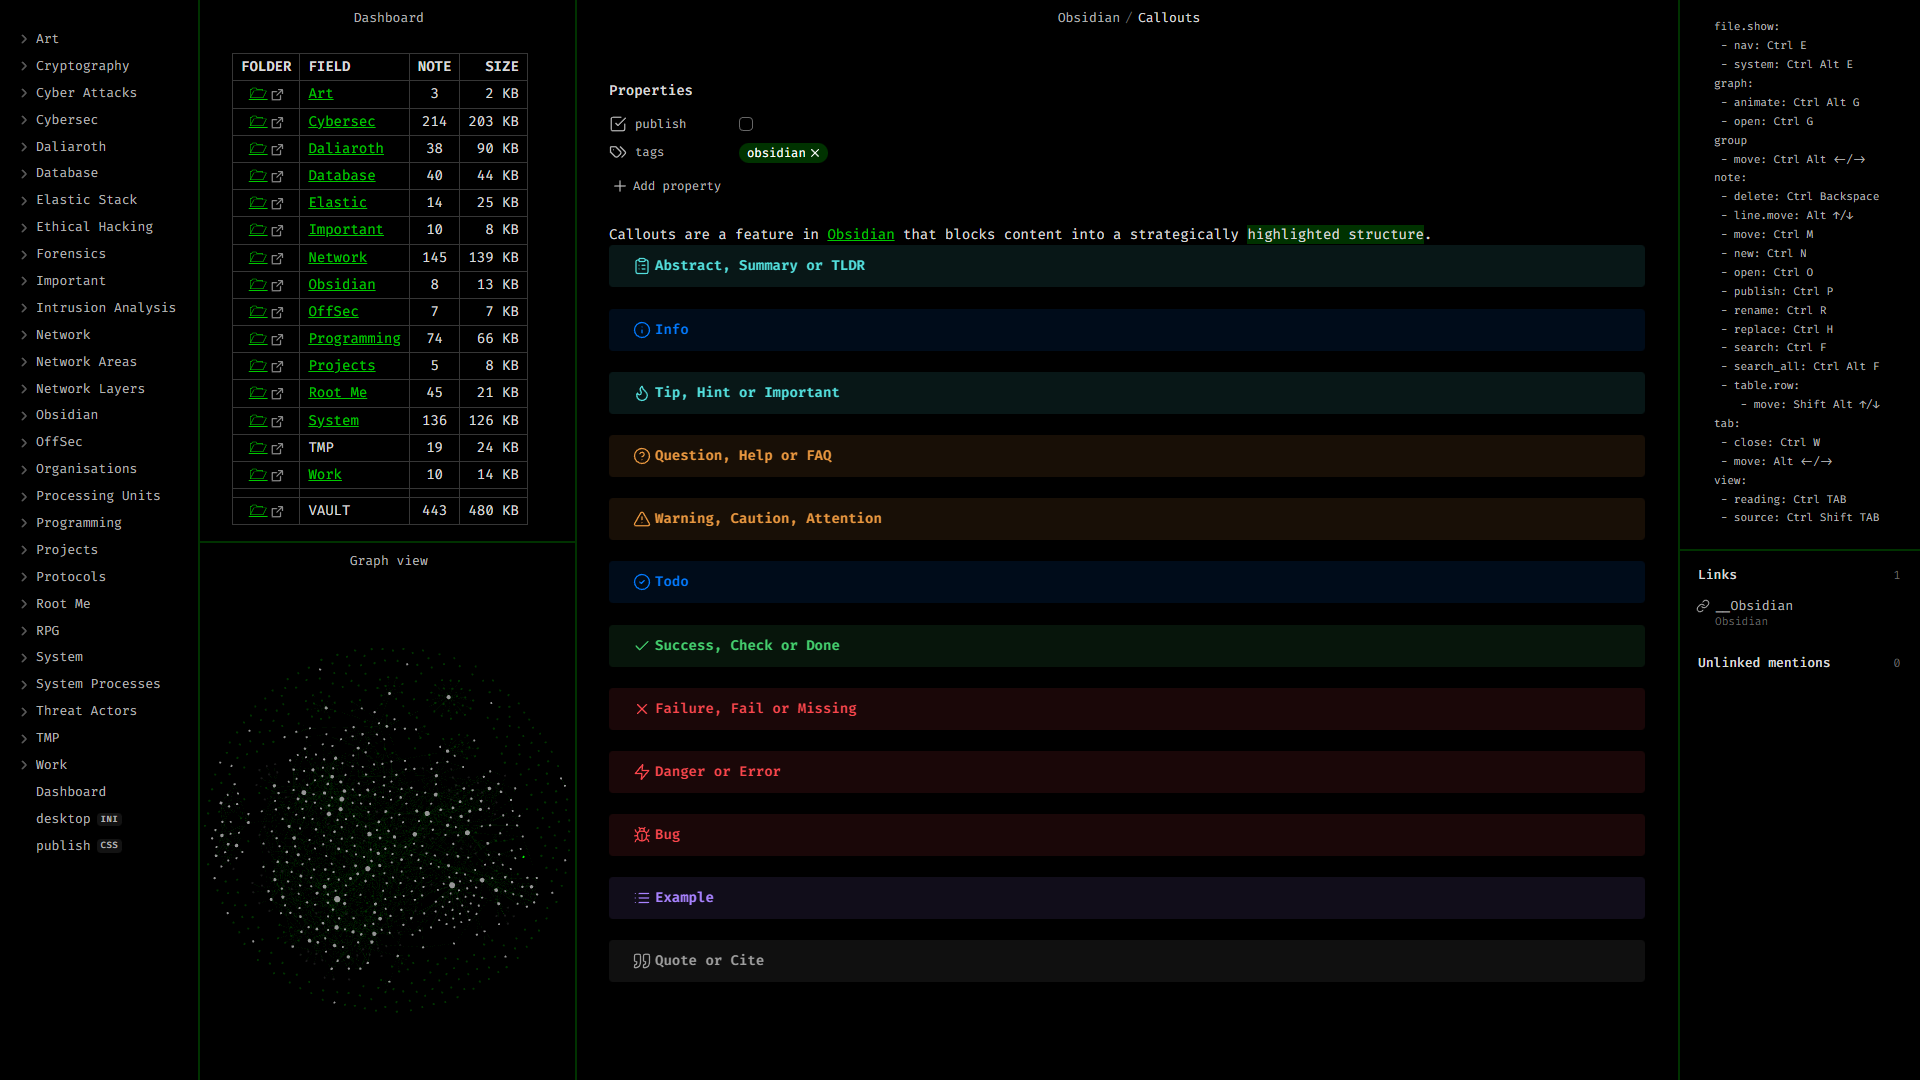
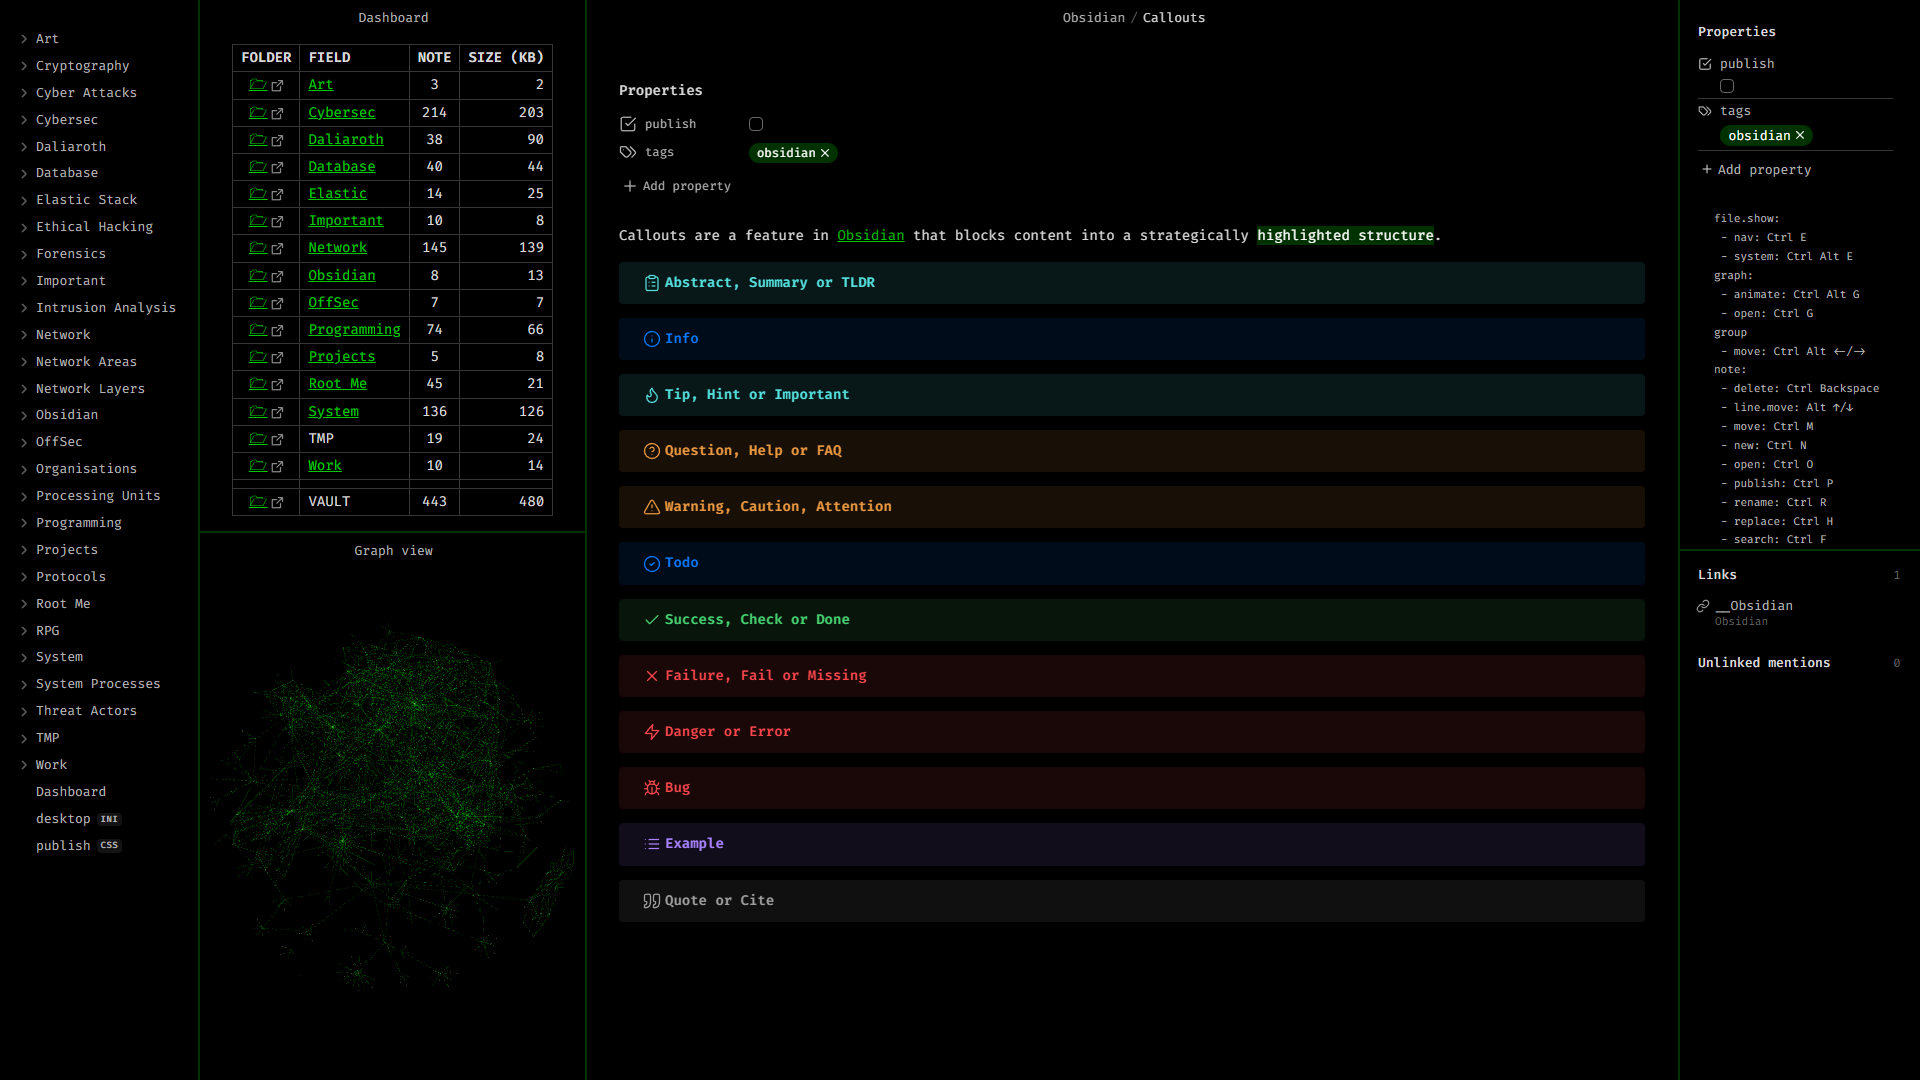
Update

diff --git a/theme.CSS b/theme.CSS
@@ -8,6 +8,7 @@
 	--white: rgb(255, 255, 255);
 
 	--green-255: rgb(0, 255, 0);
+	--green-255-a25: rgba(0, 255, 0, 0.25);
 	--green-200: rgb(0, 200, 0);
 	--green-150: rgb(0, 150, 0);
 	--green-100: rgb(0, 100, 0);
@@ -20,19 +21,14 @@
 	/* Fonts */
 	--default-font: var(--main-font);
 	--font-monospace: var(--main-font);
-
-	/* Line */
-	--line-height-normal: 1;
 }
 
-.theme-dark,
-.theme-light {
+.theme-dark {
 	/* Background */
 	--background-primary: var(--black);
 	--background-primary-alt: var(--black);
 	--background-secondary: var(--black);
 	--background-secondary-alt: var(--black);
-	--text-highlight-bg: var(--green-50);
 
 	/* Dividers */
 	--divider-color: var(--green-50);
@@ -41,11 +37,7 @@
 	--divider-width-hover: 4px;
 
 	/* Graph */
-	--graph-line: var(--green-50);
-	--graph-node: var(--grey-150);
-	--graph-node-attachment: var(--green-50);
-	--graph-node-focused: var(--green-255);
-	--graph-node-unresolved: var(--grey-50);
+	--graph-line: var(--green-150);
 
 	/* Metadata Tags */
 	--tag-background: var(--green-50);
@@ -56,6 +48,14 @@
 	/* Text */
 	--text-accent: var(--green-200);
 	--text-accent-hover: var(--green-255);
+	--text-selection: var(--green-255-a25);
+}
+
+/* Highlights */
+.markdown-rendered mark,
+.cm-s-obsidian span.cm-highlight {
+	background-color: var(--green-50);
+	color: var(--white);
 }
 
 /*========

diff --git a/README.md b/README.md
@@ -1,6 +1,32 @@
-A work in progress theme that aims to resemble the Nano text editor by being minimalistic.
+A work in progress theme that aims to resemble the Nano text editor. It is intended to be minimalistic and exclusive to dark mode: for the gremlins and other basement dwellers.
 # Current Visualisation
 ![Visualisation](https://github.com/DarkKooky/obsidian-styling/blob/main/Example.png)
+# Graph
+As I've only implemented colouring for edges, the `Graph view` is best used with the following parameters:
+```json
+{
+  "collapse-filter": true,
+  "search": "",
+  "showTags": false,
+  "showAttachments": true,
+  "hideUnresolved": false,
+  "showOrphans": false,
+  "collapse-color-groups": true,
+  "colorGroups": [],
+  "collapse-display": false,
+  "showArrow": false,
+  "textFadeMultiplier": 3,
+  "nodeSizeMultiplier": 0.1,
+  "lineSizeMultiplier": 0.1,
+  "collapse-forces": true,
+  "centerStrength": 0.8,
+  "repelStrength": 20,
+  "linkStrength": 1,
+  "linkDistance": 30,
+  "scale": 0.055,
+  "close": true
+}
+```
 # How To Use
 - In Obsidian, open the `Settings > Appearance > CSS snippets`
 - Click 🗁 to open the vault's snippets directory `.obsidian/snippets/`
